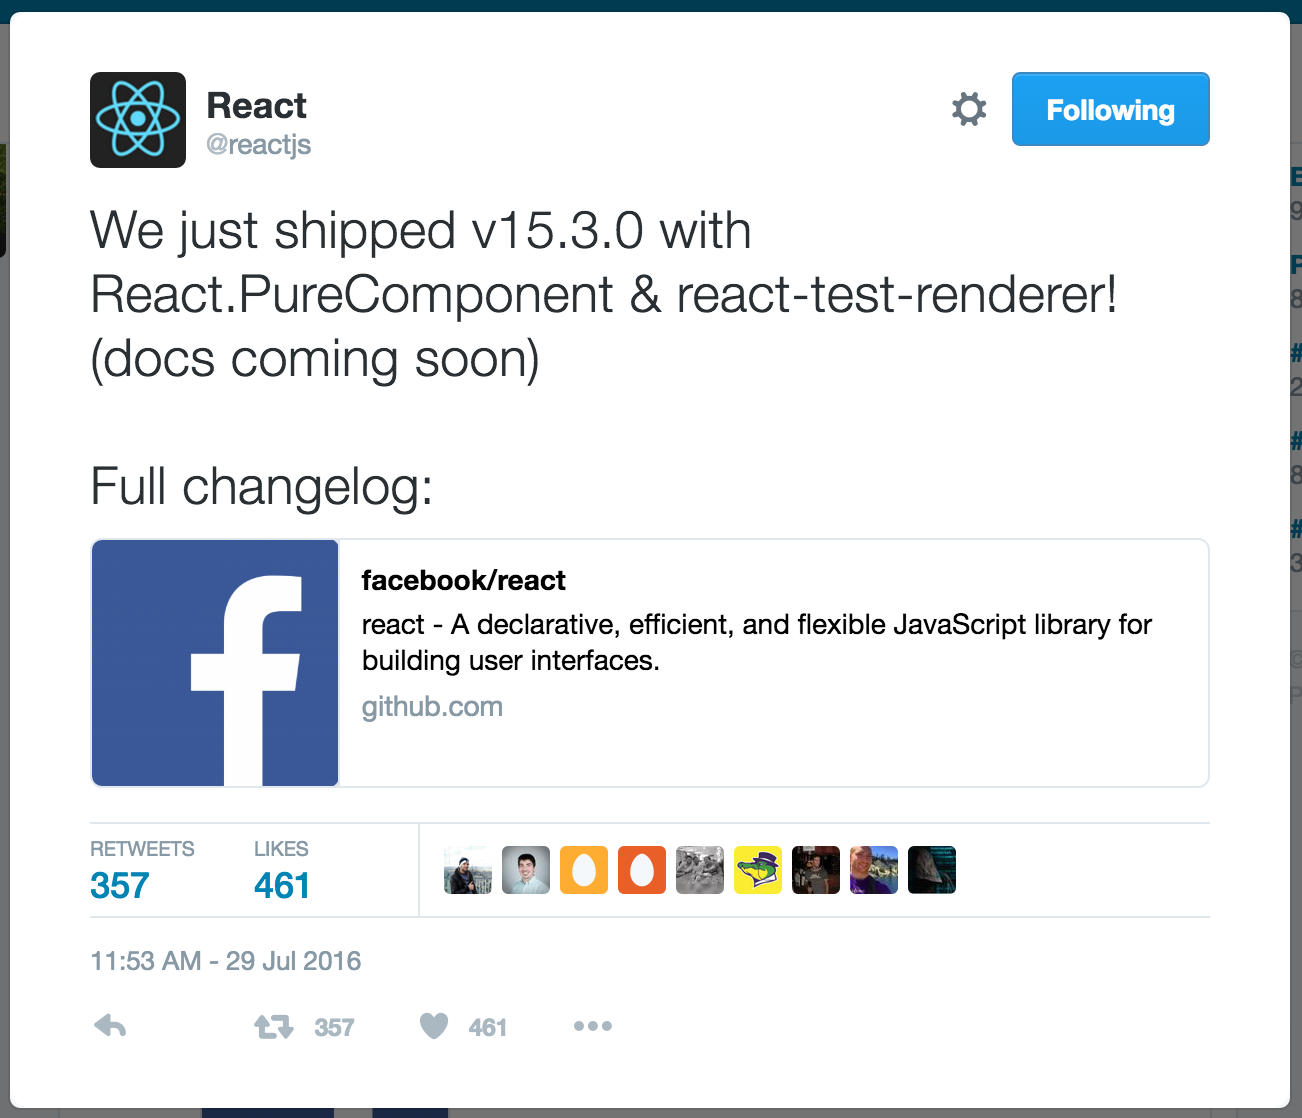
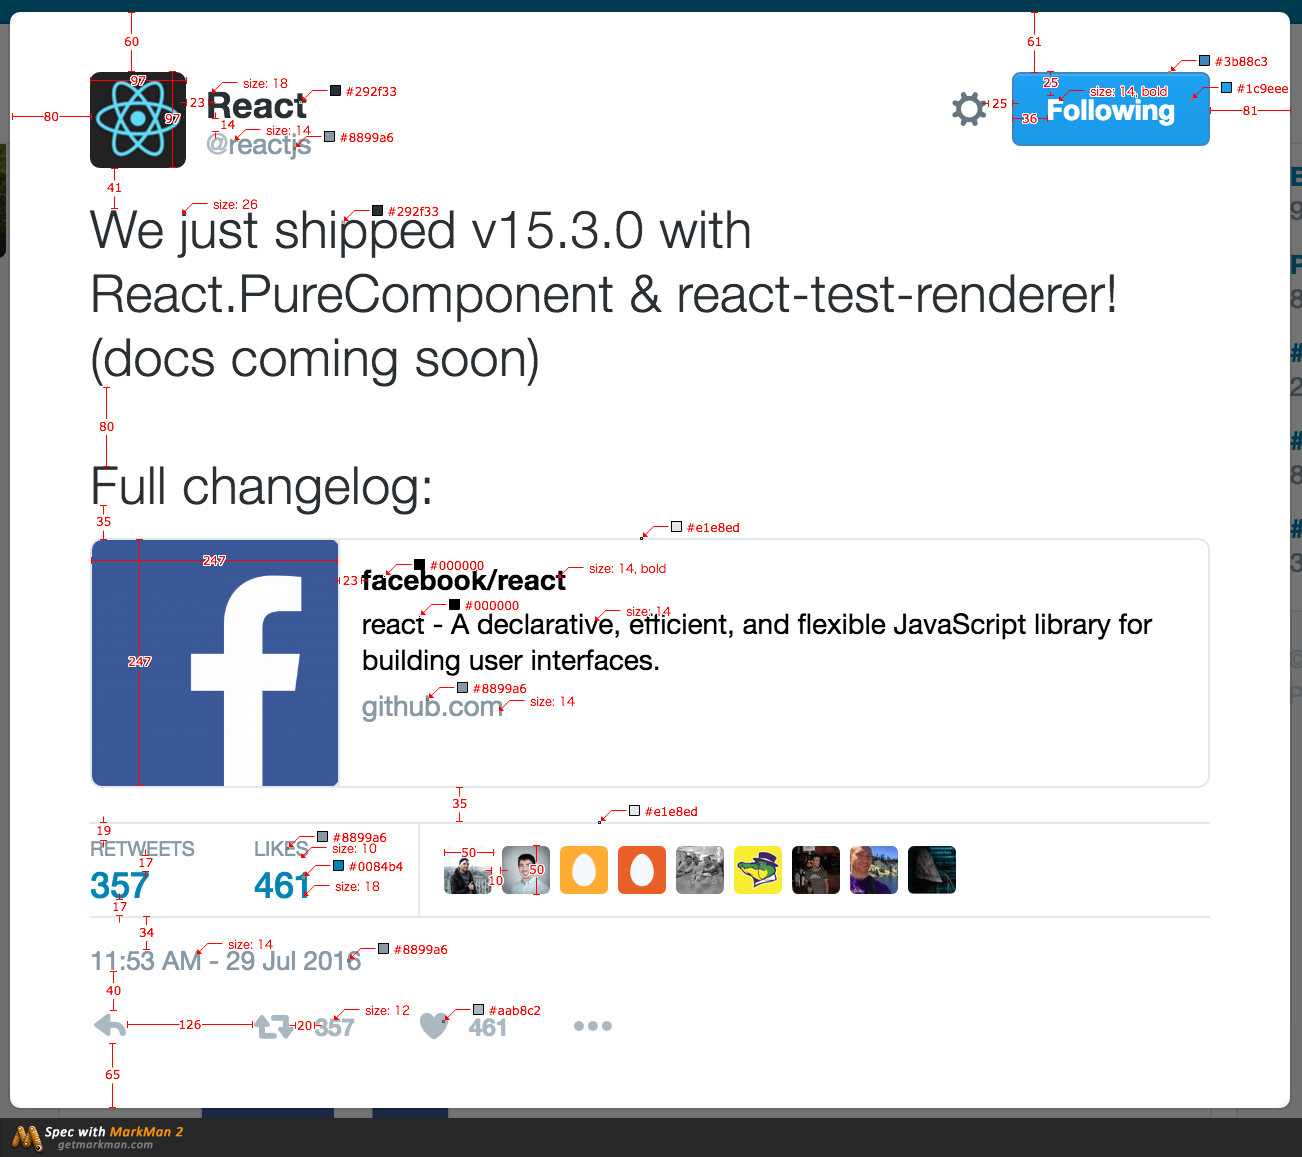
Update screenshot

diff --git a/README.md b/README.md
@@ -2,9 +2,13 @@
 
 设计图和标注图都在 `screenshot` 文件夹中
 
-`design.png` 为设计图，`annotated.png` 为标注图。
+设计图
 
+![img](https://raw.githubusercontent.com/lingoer/CPICWorkshopDay2/master/screenshot/design.png)
 
+标注图。
+
+![img](https://raw.githubusercontent.com/lingoer/CPICWorkshopDay2/master/screenshot/annotated.png)
 
 
 
